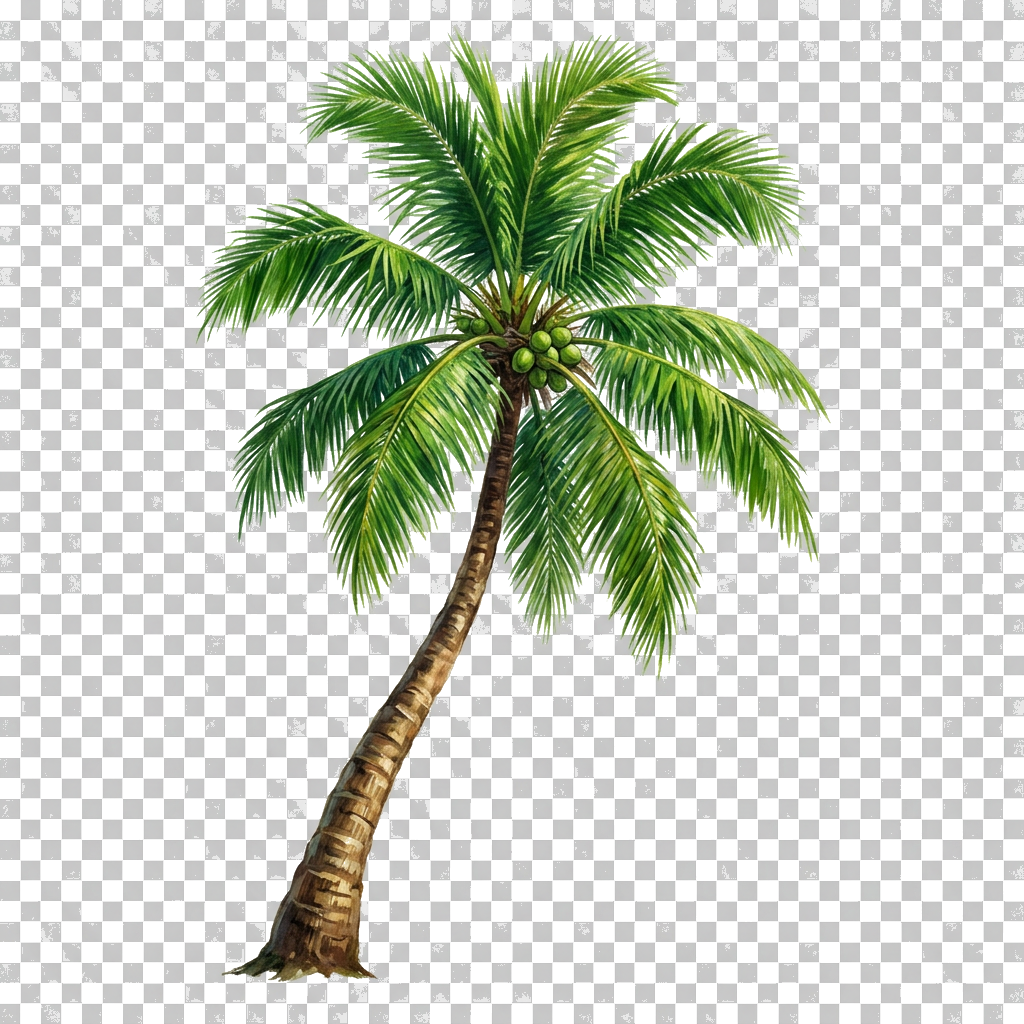
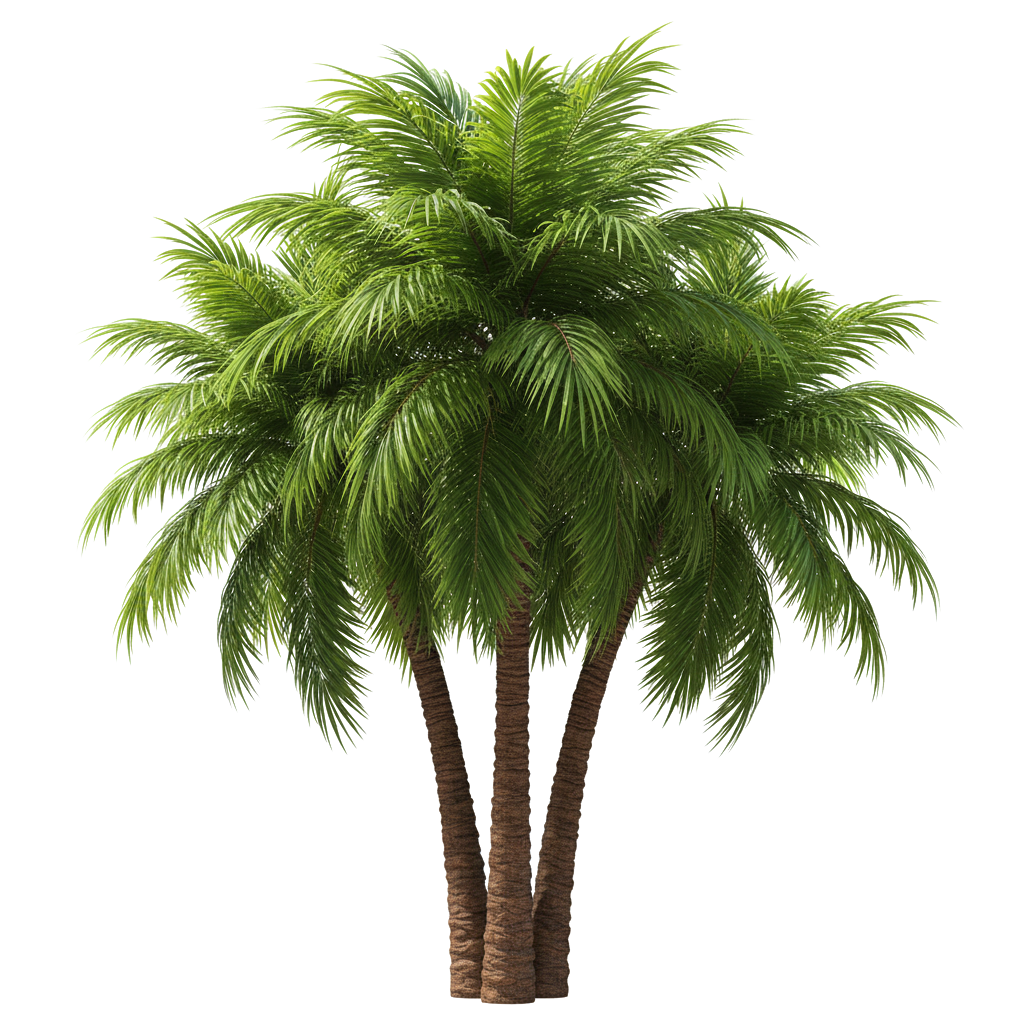
Auto-commit agent changes

diff --git a/pages/Home.jsx b/pages/Home.jsx
@@ -968,8 +968,19 @@ export default function Home() {
         <div style={{ background: PAPER, padding: "14px 14px 8px" }}>
           {/* Top row: palm | title (centered) | burger */}
           <div style={{ display: "flex", alignItems: "center", justifyContent: "space-between" }}>
-            {/* Left: palm tree — fixed 40x40 to match burger width exactly */}
-            <span style={{ fontSize: 34, lineHeight: 1, flexShrink: 0, width: 40, height: 40, display: "flex", alignItems: "center", justifyContent: "center" }}>🌴</span>
+            {/* Left: realistic palm tree cluster */}
+            <div style={{ flexShrink: 0, width: 68, height: 72, display: "flex", alignItems: "flex-end", justifyContent: "center" }}>
+              <img
+                src="https://base44.app/api/apps/69d062aca815ce8e697894b1/files/mp/public/69d062aca815ce8e697894b1/eec112014_palm_transparent2.png"
+                alt="Palm trees"
+                style={{
+                  width: 72, height: 72,
+                  objectFit: "contain",
+                  objectPosition: "bottom center",
+                  display: "block",
+                }}
+              />
+            </div>
             {/* Center: V-Hub title */}
             <span style={{ flex: 1, textAlign: "center", fontSize: 52, fontWeight: 900, color: INK, fontFamily: "'Times New Roman', serif", letterSpacing: -1, lineHeight: 1 }}>
               <span style={{ fontStyle: "italic", fontWeight: 400, fontFamily: "'Great Vibes', cursive", fontSize: "1.2em", color: BROWN_BTN }}>V</span>